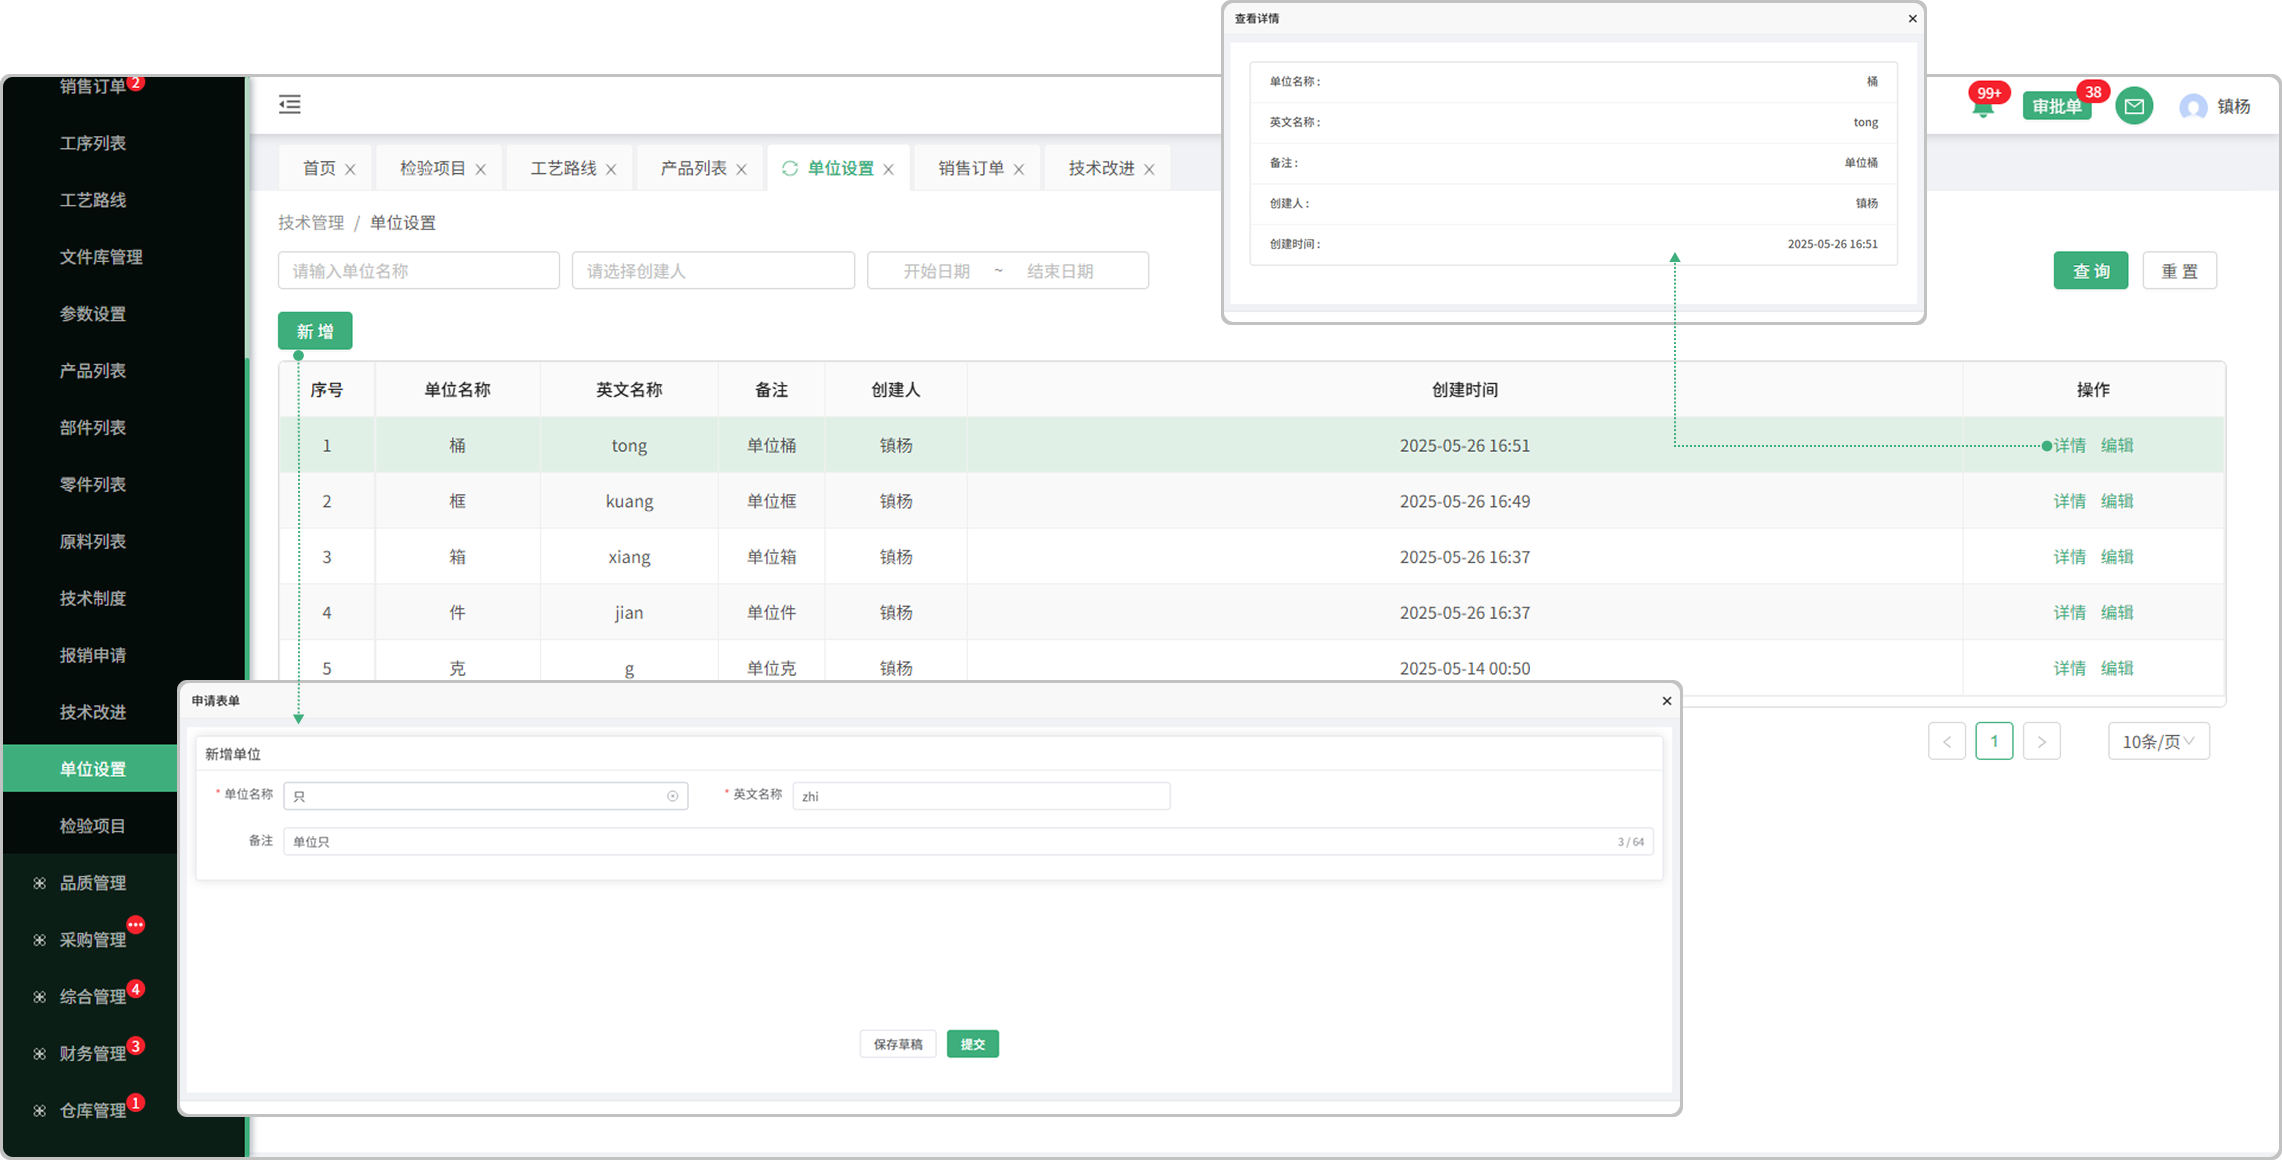
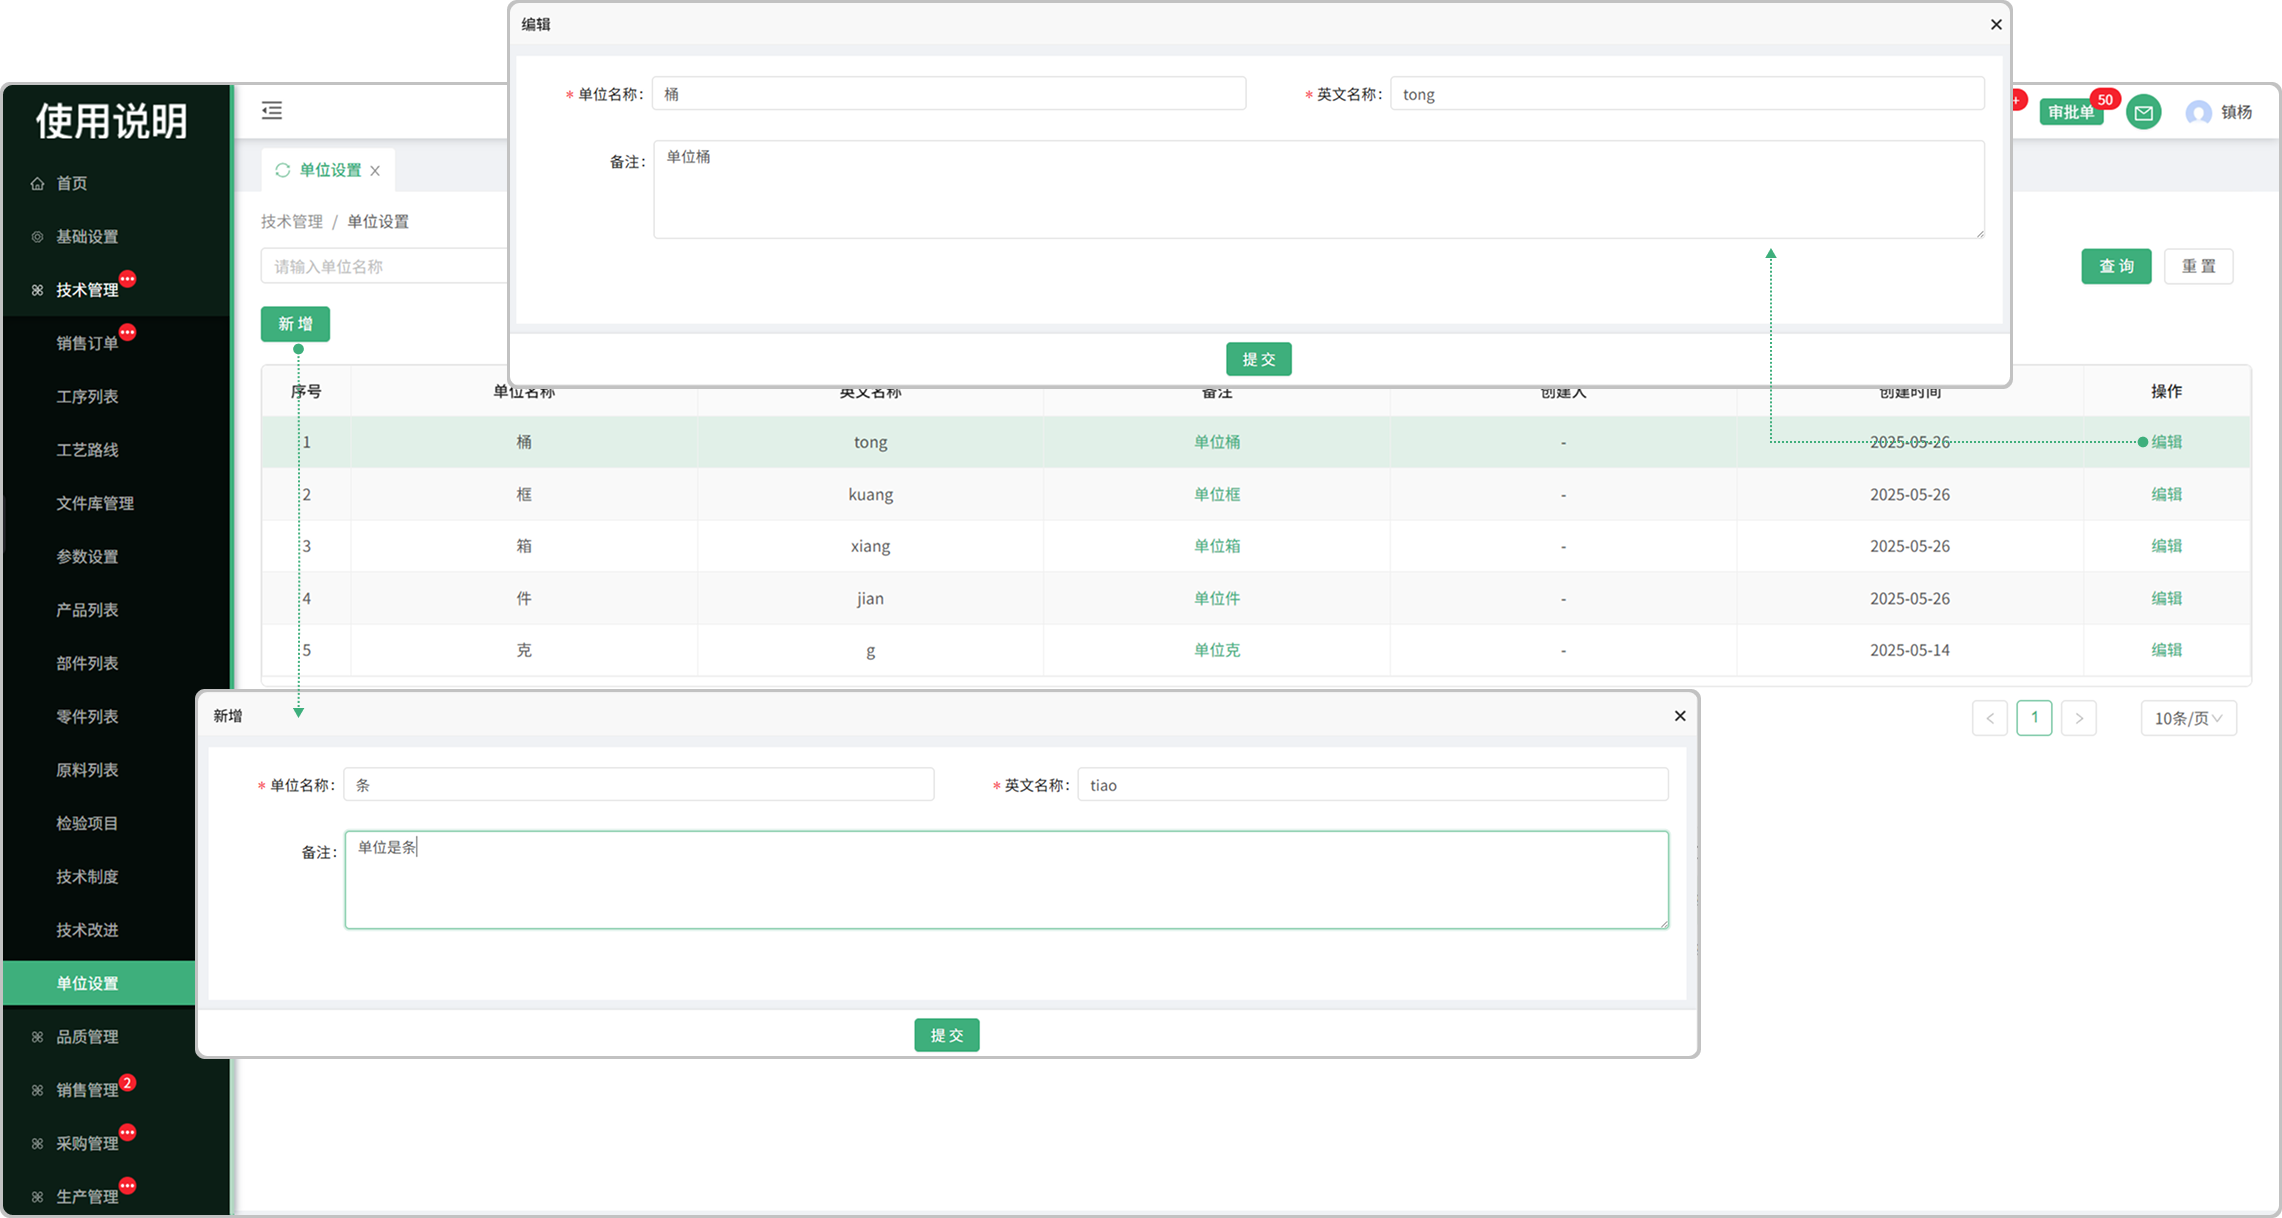
630下午添加

diff --git a/docs/技术管理/技术改进.md b/docs/技术管理/技术改进.md
@@ -1,32 +1,27 @@
 # 技术改进
 
-> "技术改进"位于技术管理板块，在"技术改进列表"中新增相对应的"技术改进单据" 可以指定改进方案和分配(分配某个人去完成)
+> "技术改进"位于技术管理板块，在"技术改进列表"中新增相对应的"技术改进单据" 可以指定改进方案和分发(分发某个人去完成)
 
 #### 1. 新增
 
-* 新增:点击新增 "技术改进"完成 "提交" 后,页面操作显示:详情  改进  分配
+* 新增:点击“新增”完成后点击 "提交"，页面操作显示:需求概述  改进详情  分发  改进 
 
-#### 2.详情
+#### 2.需求概述
 
-* 详情:点击详情可查看名称，型号规格，需求概述，改进详情，改进负责人，状态，申请人，申请日期
+* 需求概述可查看当前技术改进概述内容
 
-#### 3.保存草稿
+#### 3.分发
 
-* 保存草稿:保存草稿后,在点击新增的时候回显示之前保存的草稿
+* 可分发给某个人去完成改进内容
 
 ![如图所示](../file/jsgj1.png)
 
-
 #### 4.改进
 
-* 改进: 点击改进可填写改进的:方案 \ 备注 \ 完成时间(如果 "改进完成" 就不能分配了,可以 "分配完成" 在去改进)
+* 改进: 点击改进可填写改进的:方案 \ 备注(如果 "改进完成" 就不能分发了,可以 "分发完成" 再去改进)
 
+#### 5.改进详情
 
+* 改进成功后可点击改进详情查看当前技术改进内容
+* 
 ![如图所示](../file/jsgj2.png)
- 
-
-#### 5。分配
-
-* 分配: 点击分配,可以指定分配给某个人
-
-![如图所示](../file/jsgj3.png)

diff --git a/docs/技术管理/单位配置.md b/docs/技术管理/单位配置.md
@@ -9,9 +9,4 @@
 
 * 可对新增过的单位进行修改
 
-#### 详情
-
-* 点击详情可查看所添加的单位名称，英文名称，备注信息，创建人，创建时间
-
-
 ![如图所示](../file/dwpz.png)
